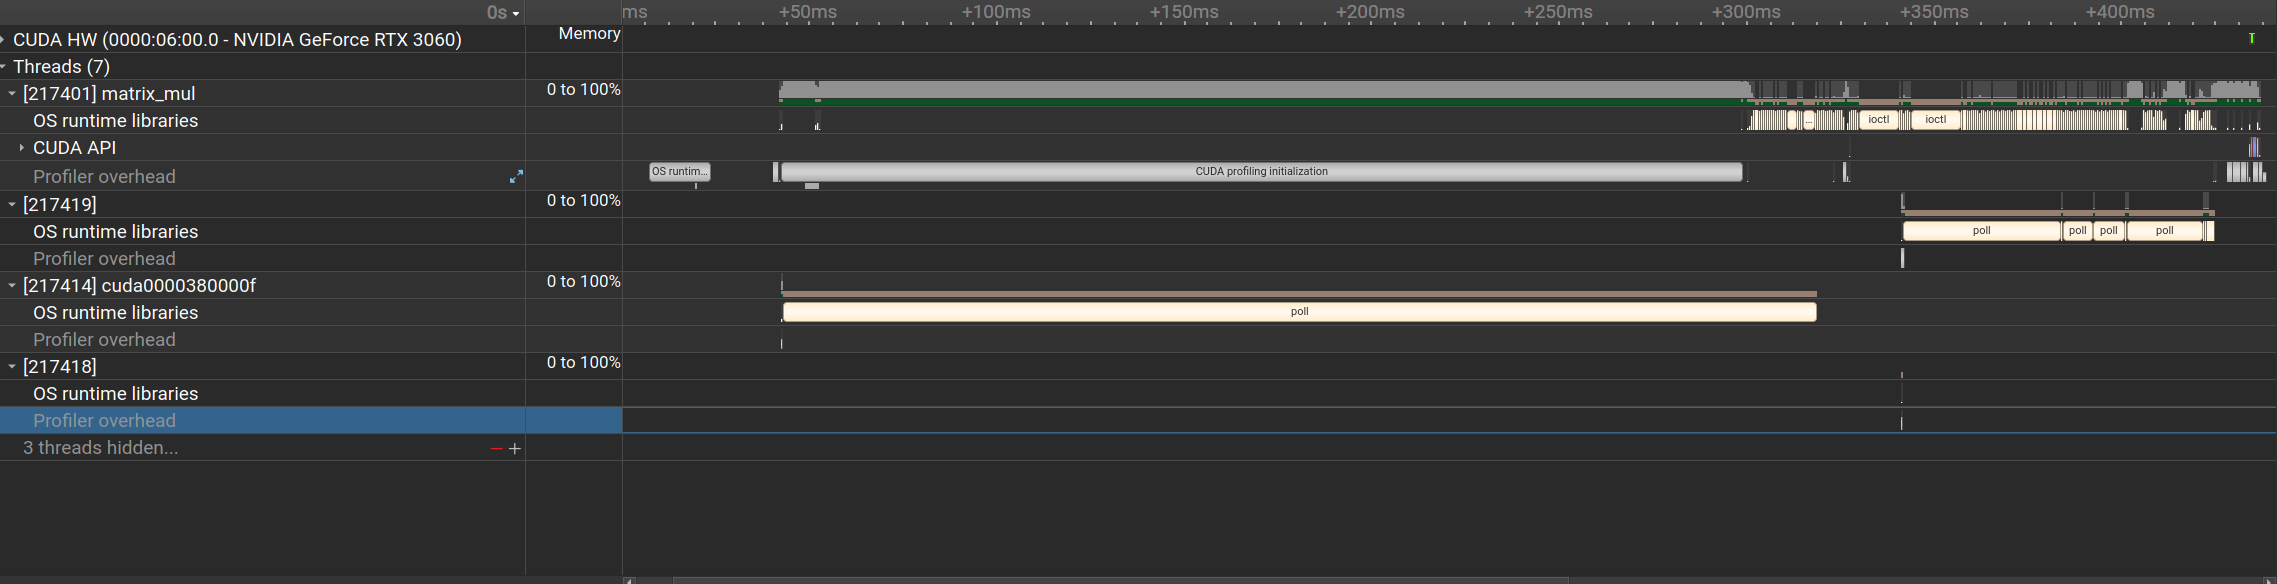
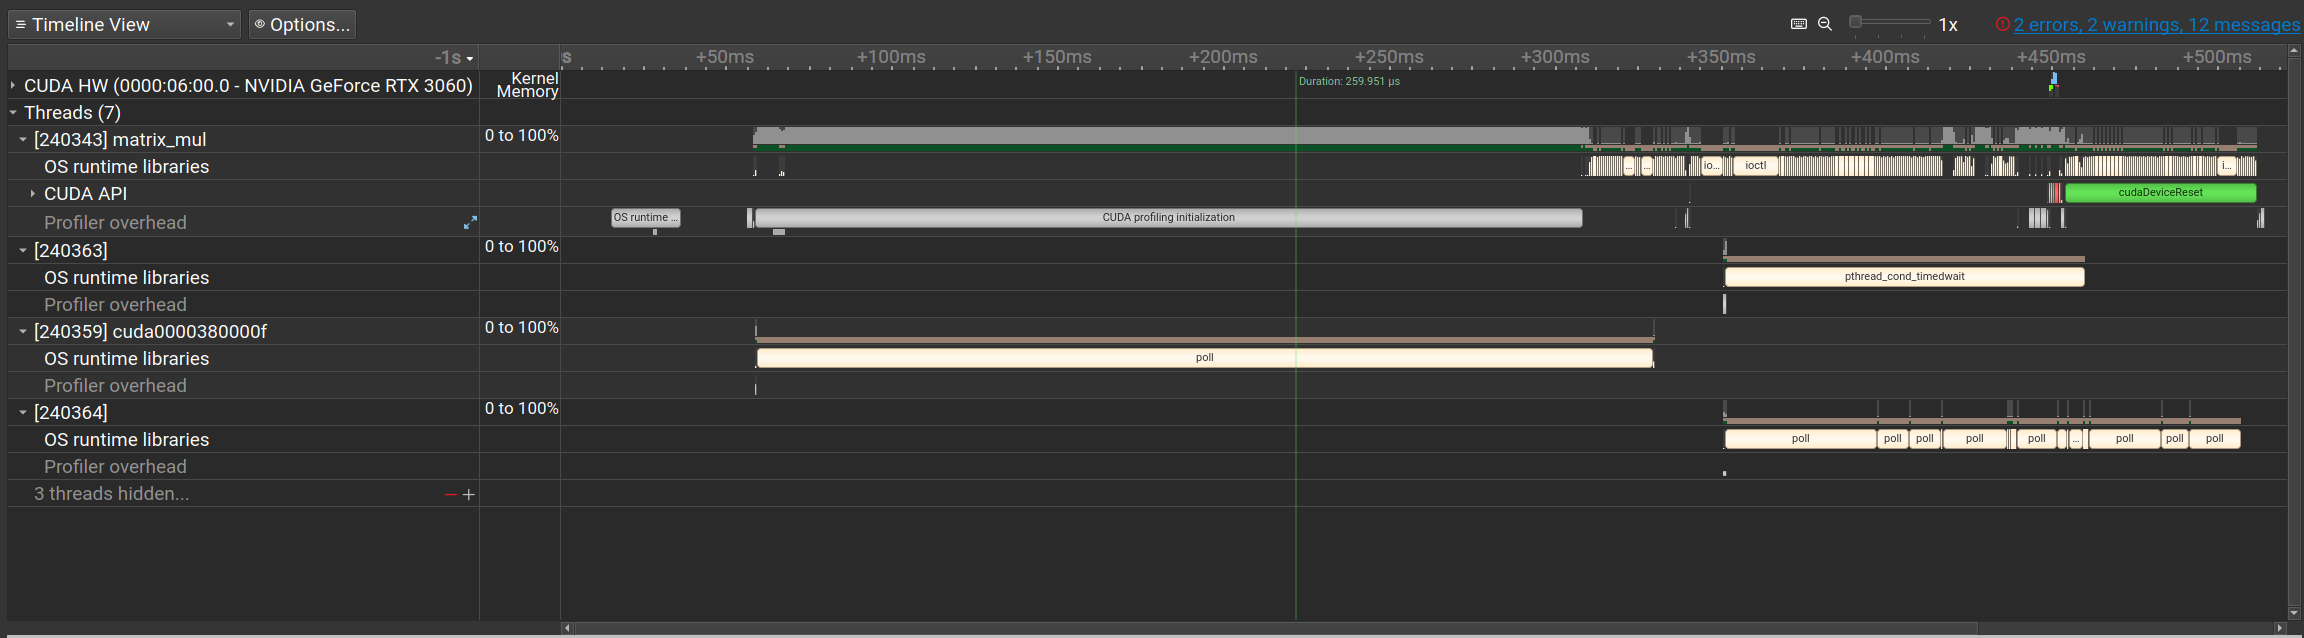
new file:   experiments/exp-5.md 	modified:   experiments/img/profile.png 	modified:   shared/experiments/exp5/.cache/clangd/index/main.cu.68A7269EEFC81D94.idx 	new file:   shared/experiments/exp5/test/.cache/clangd/index/test.cu.0A2B683A571F8961.idx 	modified:   shared/experiments/exp5/test/CMakeLi

diff --git a/experiments/exp-5.md b/experiments/exp-5.md
@@ -1,0 +1,244 @@
+# CUDA实验
+
+本实验通过多个CUDA示例从入门到性能分析，带领读者体验GPU并行编程的开发流程和实践思路。
+
+## 编译运行测试程序
+
+在本节中，我们将使用矩阵乘法示例，比对CPU与GPU的执行效率，并直观感受CUDA加速的优势。
+
+### CMakeLists.txt
+
+以下CMake文件定义了CUDA主机编译器、目标架构及运行时链接选项，确保项目可以正确构建并调用GPU：
+
+```cpp
+cmake_minimum_required(VERSION 3.28)
+
+set(CMAKE_EXPORT_COMPILE_COMMANDS ON)
+set(CMAKE_CUDA_HOST_COMPILER "/usr/bin/g++")
+set(CMAKE_CUDA_FLAGS "${CMAKE_CUDA_FLAGS} -allow-unsupported-compiler")
+
+set(CMAKE_CUDA_ARCHITECTURES 86)
+
+project(MatrixMultiplication LANGUAGES CXX CUDA)
+
+find_package(CUDAToolkit REQUIRED)
+
+add_executable(matrix_mul test.cu)
+target_link_libraries(matrix_mul PRIVATE CUDA::cudart)
+```
+
+并使用如下脚本编译：
+
+```bash
+#!/usr/bin/zsh
+rm -rf build/
+mkdir build && cd build
+cmake ..
+make -j$(nproc)
+```
+
+编译过程简洁高效，一条命令即可完成整个项目的构建。
+
+### 运行结果
+
+编译完成后，运行示例程序并输出如下结果：
+```txt
+➜  test git:(v1) ✗ build/matrix_mul
+CUDA use time(s): 0.134537
+================================================
+C[1023,511] is right
+```
+
+从输出中可以看出，GPU在处理大规模矩阵运算时展现了明显的性能提升。
+
+## Profile程序
+
+使用nsight-sys进行性能剖析，可以生成火焰图并量化不同阶段的开销，帮助我们发现瓶颈并进行针对性优化。
+
+性能分析如下：
+![profile](img/profile.png)
+火焰图直观展示了CPU与GPU的执行热点分布，利于后续的内存和计算优化。
+
+## 向量加程序
+
+本示例通过在内核中使用位运算替代分支判断，演示如何编写高效的CUDA向量加实现。
+
+### 向量加程序 CMakeLists.txt
+
+配置与前文类似，此处生成名为TestProgram的可执行文件，并链接CUDA运行时。
+
+```cpp
+cmake_minimum_required(VERSION 3.28)
+
+set(CMAKE_EXPORT_COMPILE_COMMANDS ON)
+set(CMAKE_CUDA_HOST_COMPILER "/usr/bin/g++")
+set(CMAKE_CUDA_FLAGS "${CMAKE_CUDA_FLAGS} -allow-unsupported-compiler")
+
+set(CMAKE_CUDA_ARCHITECTURES 86)
+
+project(MatrixMultiplication LANGUAGES CXX CUDA)
+
+find_package(CUDAToolkit REQUIRED)
+
+add_executable(TestProgram src/main.cu)
+target_link_libraries(TestProgram PRIVATE CUDA::cudart)
+```
+
+### 主程序代码
+
+程序首先在CPU端执行一次向量加运算，然后在GPU端执行相同计算，并记录两者运行时间。
+
+```cpp
+#include <stdio.h>
+#include <stdlib.h>
+#include <cuda_runtime.h>
+#include <time.h>
+#include <cstdlib>
+
+// 数组大小
+#define N 10000
+
+// CUDA 错误检查宏
+#define CUDA_CHECK(call) \
+    do { \
+        cudaError_t err = call; \
+        if(err != cudaSuccess) { \
+            fprintf(stderr, "CUDA Error at %s:%d - %s\n", __FILE__, __LINE__, cudaGetErrorString(err)); \
+            exit(EXIT_FAILURE); \
+        } \
+    } while(0)
+
+// CUDA Kernel：计算 C[i] = A[i] + B[i]（当 i 为偶数），否则 C[i] = A[i]
+__global__ void compute_kernel(const float* A, const float* B, float* C, int n) {
+    int i = blockIdx.x * blockDim.x + threadIdx.x;
+    if(i < n) {
+        // 使用位运算避免 if 判断
+        int is_even = 1 - (i & 1); // i & 1 为 1 表示奇数，0 表示偶数
+        C[i] = A[i] + is_even * B[i];
+    }
+}
+
+// CPU 实现
+void compute_cpu(const float* A, const float* B, float* C, int n) {
+    for(int i = 0; i < n; ++i) {
+        C[i] = (i % 2 == 0) ? (A[i] + B[i]) : A[i];
+    }
+}
+
+// 将数组写入文件
+void write_to_file(const char* filename, const float* data, int n) {
+    FILE* fp = fopen(filename, "w");
+    if(!fp) {
+        perror("Failed to open file");
+        exit(EXIT_FAILURE);
+    }
+    for(int i = 0; i < n; ++i) {
+        fprintf(fp, "%f\n", data[i]);
+    }
+    fclose(fp);
+}
+
+int main() {
+    float *h_A, *h_B, *h_C_cpu, *h_C_gpu;
+    float *d_A, *d_B, *d_C;
+
+    size_t size = N * sizeof(float);
+
+    // 分配主机内存malloc
+    h_A = (float*)std::malloc(size);
+    h_B = (float*)std::malloc(size);
+    h_C_cpu = (float*)std::malloc(size);
+    h_C_gpu = (float*)std::malloc(size);
+
+    // 初始化随机数种子
+    srand((unsigned int)time(NULL));
+    for(int i = 0; i < N; ++i) {
+        h_A[i] = (float)(rand()) / RAND_MAX;
+        h_B[i] = (float)(rand()) / RAND_MAX;
+    }
+
+    // CPU 计算
+    clock_t start_cpu = clock();
+    compute_cpu(h_A, h_B, h_C_cpu, N);
+    clock_t end_cpu = clock();
+    double time_cpu = (double)(end_cpu - start_cpu) / CLOCKS_PER_SEC;
+    printf("CPU computation time: %f seconds\n", time_cpu);
+
+    // 分配设备内存
+    CUDA_CHECK(cudaMalloc((void**)&d_A, size));
+    CUDA_CHECK(cudaMalloc((void**)&d_B, size));
+    CUDA_CHECK(cudaMalloc((void**)&d_C, size));
+
+    // 复制数据到设备
+    CUDA_CHECK(cudaMemcpy(d_A, h_A, size, cudaMemcpyHostToDevice));
+    CUDA_CHECK(cudaMemcpy(d_B, h_B, size, cudaMemcpyHostToDevice));
+
+    // GPU 计算
+    int threadsPerBlock = 256;
+    int blocksPerGrid = (N + threadsPerBlock - 1) / threadsPerBlock;
+
+    cudaEvent_t start_gpu, end_gpu;
+    CUDA_CHECK(cudaEventCreate(&start_gpu));
+    CUDA_CHECK(cudaEventCreate(&end_gpu));
+    CUDA_CHECK(cudaEventRecord(start_gpu, 0));
+
+    compute_kernel<<<blocksPerGrid, threadsPerBlock>>>(d_A, d_B, d_C, N);
+    CUDA_CHECK(cudaGetLastError());
+
+    CUDA_CHECK(cudaEventRecord(end_gpu, 0));
+    CUDA_CHECK(cudaEventSynchronize(end_gpu));
+
+    float time_gpu = 0;
+    CUDA_CHECK(cudaEventElapsedTime(&time_gpu, start_gpu, end_gpu));
+    printf("GPU computation time: %f milliseconds\n", time_gpu);
+
+    // 复制结果回主机
+    CUDA_CHECK(cudaMemcpy(h_C_gpu, d_C, size, cudaMemcpyDeviceToHost));
+
+    // 将结果写入文件
+    write_to_file("result.txt", h_C_gpu, N);
+
+    // 验证结果
+    int errors = 0;
+    for(int i = 0; i < N; ++i) {
+        if(fabs(h_C_cpu[i] - h_C_gpu[i]) > 1e-5) {
+            errors++;
+            if(errors <= 10) {
+                printf("Mismatch at index %d: CPU=%f, GPU=%f\n", i, h_C_cpu[i], h_C_gpu[i]);
+            }
+        }
+    }
+    if(errors == 0) {
+        printf("Results match.\n");
+    } else {
+        printf("Total mismatches: %d\n", errors);
+    }
+
+    // 释放资源
+    std::free(h_A);
+    std::free(h_B);
+    std::free(h_C_cpu);
+    std::free(h_C_gpu);
+    CUDA_CHECK(cudaFree(d_A));
+    CUDA_CHECK(cudaFree(d_B));
+    CUDA_CHECK(cudaFree(d_C));
+    CUDA_CHECK(cudaEventDestroy(start_gpu));
+    CUDA_CHECK(cudaEventDestroy(end_gpu));
+
+    return 0;
+}
+```
+
+### 向量加运行结果
+
+示例执行输出如下：
+
+```txt
+CPU computation time: 0.000024 seconds
+GPU computation time: 0.104256 milliseconds
+Results match.
+```
+
+整体来看，尽管GPU启动存在开销，但在大规模数据并行处理时依然能获得显著加速，相比CPU展现出更高的效率。
+
+通过本次实验，读者应能掌握CUDA程序的基本结构、编译运行流程及性能分析方法，为后续深入学习GPU编程奠定基础。
